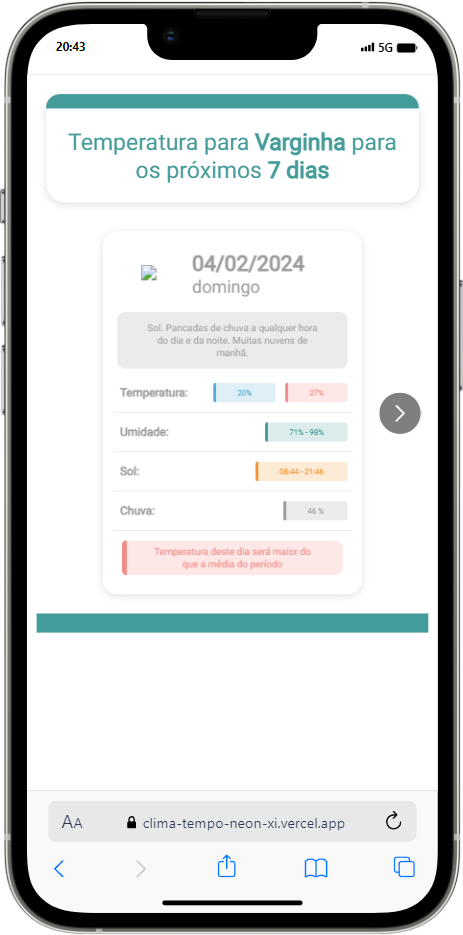
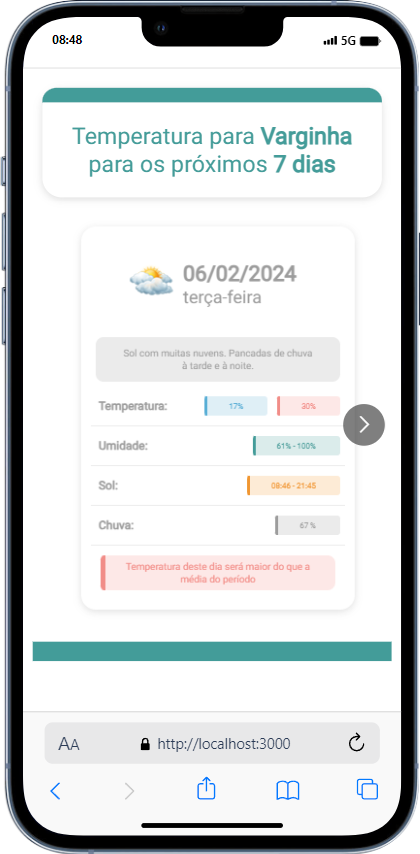
Function created to get the current time period based on the current time

diff --git a/src/components/IconeClima.tsx b/src/components/IconeClima.tsx
@@ -29,43 +29,59 @@ const ClimaIcone: React.FC<ClimaIconeProps> = ({ data }) => {
 
   const { text_icon } = data;
 
-  const getClimaIcone = (condition: string): string => {
-    const iconMap: Record<string, string> = {
-      '1': '1.png',
-      '1n': '1n.png',
-      '2': '2.png',
-      '2r': '2r.png',
-      '2n': '2n.png',
-      '2rn': '2rn.png',
-      '3': '3.png',
-      '3n': '3n.png',
-      '4': '4.png',
-      '4r': '4r.png',
-      '4n': '4n.png',
-      '4rn': '4rn.png',
-      '4t': '4t.png',
-      '4tn': '4tn.png',
-      '5': '5.png',
-      '5n': '5n.png',
-      '6': '6.png',
-      '6n': '6ns.png',
-      '7': '7.png',
-      '7n': '7n.png',
-      '8': '8.png',
-      '9': '9.png'
-    };
+  // Obtendo o período do dia atual
+  const getPeriodoDoDia = (): 'dawn' | 'morning' | 'afternoon' | 'night' => {
+    const horaAtual = new Date().getHours();
+    if (horaAtual >= 5 && horaAtual < 12) {
+      return 'morning';
+    } else if (horaAtual >= 12 && horaAtual < 18) {
+      return 'afternoon';
+    } else if (horaAtual >= 18 && horaAtual < 21) {
+      return 'night';
+    } else {
+      return 'dawn';
+    }
+  };
+  // Obtendo o período do dia atual
+  const periodoAtual = getPeriodoDoDia();
 
-    return iconMap[condition] || 'default.png';
+  // Obtendo o ícone correspondente ao período do dia atual
+  const iconeAtual = text_icon.icon[periodoAtual];
+
+  // Mapeando a codificação do ícone para o nome do arquivo
+  const iconeFileNomeMap: Record<string, string> = {
+    '1': '1.png',
+    '1n': '1n.png',
+    '2': '2.png',
+    '2r': '2r.png',
+    '2n': '2n.png',
+    '2rn': '2rn.png',
+    '3': '3.png',
+    '3n': '3n.png',
+    '4': '4.png',
+    '4r': '4r.png',
+    '4n': '4n.png',
+    '4rn': '4rn.png',
+    '4t': '4t.png',
+    '4tn': '4tn.png',
+    '5': '5.png',
+    '5n': '5n.png',
+    '6': '6.png',
+    '6n': '6ns.png',
+    '7': '7.png',
+    '7n': '7n.png',
+    '8': '8.png',
+    '9': '9.png'
   };
 
-  // Use a função para obter o nome da imagem com base nas condições climáticas
-  const diaIcone = getClimaIcone(text_icon.icon.dawn);
-  console.log('icone', text_icon);
+  // Obtendo o nome do arquivo do ícone atual
+  const iconeAquivoNome = iconeFileNomeMap[iconeAtual];
+  console.log('iconeAquivoNome', iconeAquivoNome);
 
   return (
     <EstiloCard>
       <img
-        src={`/assets/Img/condicoes-climaticas/${diaIcone}`}
+        src={`/assets/Img/condicoes-climaticas/${iconeAquivoNome}`}
         alt="Icone Clima"
       />
     </EstiloCard>

diff --git a/README.md b/README.md
@@ -9,8 +9,8 @@ Página web que mostre a previsão meteorológica para os próximos 7 dias para 
 <br>
 <hr>
 <p align="center">
-	<img width="190" src="src/assets/to_readme/Tela_001.png">
-  <img width="190" src="src/assets/to_readme/Tela_002.png">
+	<img width="190" src="public/Img/assets/to_readme/Tela_001.png">
+  <img width="190" src="public/Img/assets/to_readme/Tela_002.png">
 </p>
 <hr>
 <br>
